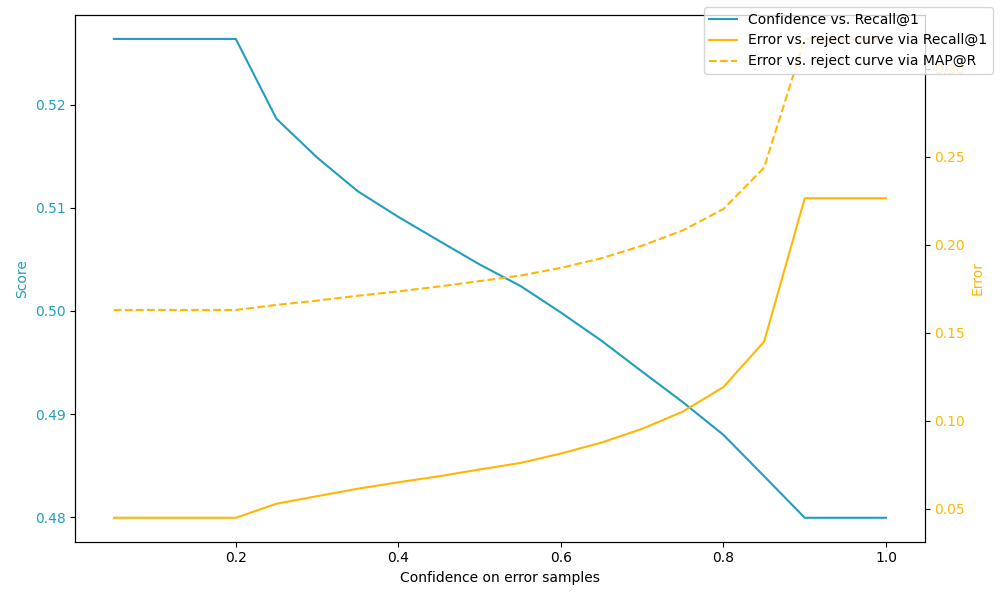
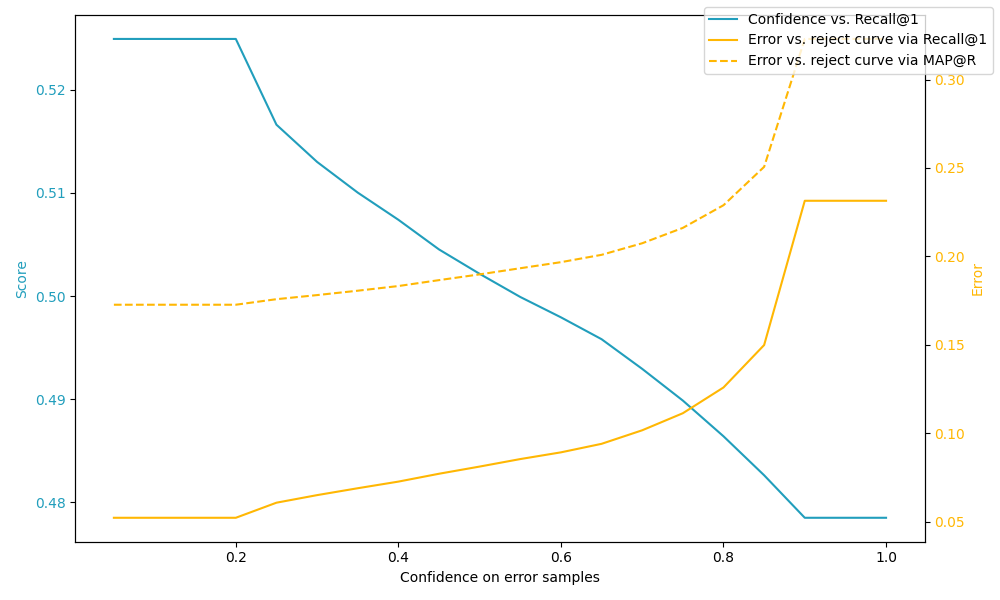
🐛: Fixed a silly bug with recall@1

diff --git a/src/ranking_metrics/embed_metrics.py b/src/ranking_metrics/embed_metrics.py
@@ -1,11 +1,14 @@
-from typing import Any
-
 from faiss import IndexFlat
 import numpy as np
 import torch
-from torch import nn
+from torch import nn, Tensor
 
-from ranking_metrics.metrics import recall_at, mean_average_precision_at_r, r_precision, sizes_per_class
+from ranking_metrics.metrics import (
+    recall_at,
+    mean_average_precision_at_r,
+    r_precision,
+    sizes_per_class,
+)
 
 
 class ClassBasedEmbeddingMetrics(nn.Module):
@@ -28,7 +31,7 @@ class ClassBasedEmbeddingMetrics(nn.Module):
         self.knn_index = IndexFlat(dim)
 
     @staticmethod
-    def get_binary_hits(c, inds) -> np.ndarray:
+    def get_binary_hits(c, inds) -> Tensor:
         """
 
         :param c: Classes/labels to map embedding vectors to source classes. Dims: (n,)
@@ -42,9 +45,9 @@ class ClassBasedEmbeddingMetrics(nn.Module):
             binary_hits.append(hits)
         binary_hits = np.stack(binary_hits)
 
-        return binary_hits
+        return torch.from_numpy(binary_hits).float()
 
-    def forward(self, d, c, ignore_self=True) -> dict[str, Any]:
+    def forward(self, d, c, ignore_self=True) -> dict[str, float]:
         """Calculates recall@{k1, k2, ... kn}, r-precision and MAP@R for the embedding space d.
 
         :param d: Embedding space based on some network or algorithm. Dims: (n, z_dim)
@@ -71,7 +74,7 @@ class ClassBasedEmbeddingMetrics(nn.Module):
 
         # Compute precision@K entries
         for k in self.ks:
-            results_dict[f"recall@{k}"] = recall_at(binary_matches, k).mean().item()
+            results_dict[f"recall@{k}"] = recall_at(binary_matches, k, aggregate=True).item()
 
         # Compute precision@K entries
         rprec = r_precision(binary_matches, c)

diff --git a/tests/test_uncertainty.py b/tests/test_uncertainty.py
@@ -2,10 +2,13 @@ import numpy as np
 import torch
 from matplotlib import pyplot as plt
 from torch import Tensor, Size
-from torch.distributions import Normal, Uniform, Distribution
+from torch.distributions import Normal, Uniform, Distribution, MultivariateNormal, Pareto
 
 from ranking_metrics.metrics import spearmanr_corr
 from src.ranking_metrics.uncertainty import UncertaintyMetrics
+
+
+cc = ["#219ebcff", "#ffb703ff"]
 
 
 def simulate_confidences(d, good_quality) -> tuple[Tensor, Distribution]:
@@ -28,7 +31,6 @@ def _test_confidence_example_2_basic(musgrave_example_2):
     corrupted_confs = 1.0
     confs[corrupt_inds] = corrupted_confs
 
-    cc = ["#8ecae6ff", "#ffb703ff"]
     _ = plt.figure(figsize=(10, 7))
     plot_title = (
         f"Example {example_id} of Musgrave et al. 2020 with simulated confidences and errors."
@@ -109,14 +111,14 @@ def test_uncertainty_example_2_spearman(musgrave_example_2):
     n_confs = 20
     scores, corrupt_prob_confs = [], []
     for i in range(1, n_confs + 1):
-        corrupt_prob_conf = float(i) / n_confs  # Probabilistic interval
+        corrupt_prob_conf = float(i) / n_confs
         corrupt_prob_confs.append(corrupt_prob_conf * sig_scale)
-        confs[corrupt_inds] = corrupt_prob_conf * sig_scale  # Scaled model interval
+        confs[corrupt_inds] = corrupt_prob_conf * sig_scale
         rcorr = spearmanr_corr(confs, gt_confs)
         scores.append(rcorr)
 
     fig, _ = plt.subplots(figsize=(10, 6))
-    cc = ["#219ebcff", "#ffb703ff"]
+
     labels = ["Rank correlation", "Simulated conf probabilities"]
     plt_title = (
         "Spearman corr. between confidences and scaled model $\hat{\sigma}$ \n $\hat{\sigma}$ scaled by "

diff --git a/src/ranking_metrics/metrics.py b/src/ranking_metrics/metrics.py
@@ -39,9 +39,11 @@ def r_precision(binary_matches, c) -> Tensor:
     return precisions
 
 
-def recall_at(binary_matches, k) -> Tensor:
+def recall_at(binary_matches, k, aggregate=False) -> Tensor:
     # Calculate the recall@k metric.
     recalls = binary_matches[:, :k].max(1)[0]
+    if aggregate:
+        recalls = recalls.mean()
 
     return recalls
 
